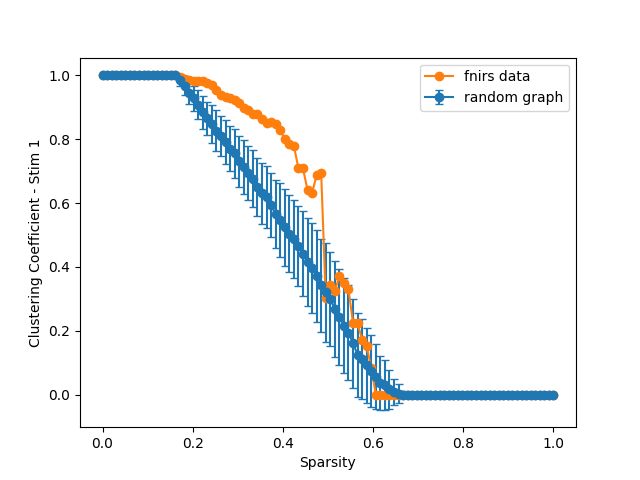
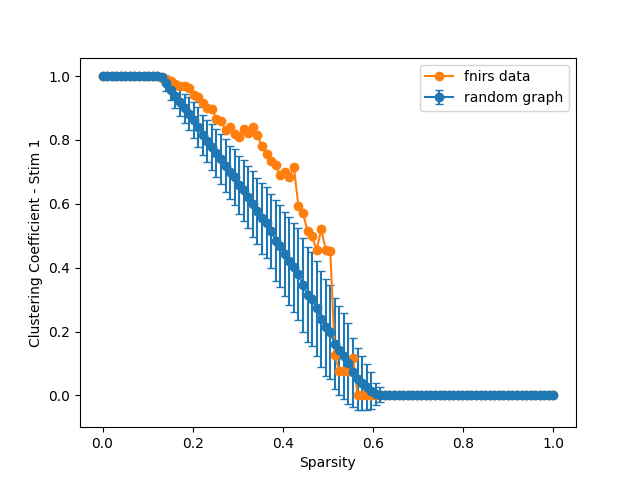
added class to compute graph metrics

diff --git a/main.py b/main.py
@@ -8,120 +8,154 @@ import utils
 # set seed
 np.random.seed(123)
 
-# class RandomGraphAnalyzer:
-#     def __init__(self, fc_matrix: np.ndarray, n_rnd_graphs: int=1000, analysis_type: str='sparsity', features: list=['global_efficiency', 'local_efficiency', 'clustering_coefficient']):
-#         '''
-#         Parameters:
-#             fc_matrix (numpy.ndarray): the functional connectivity matrix
-#             n_rnd_graphs (int): the number of random graphs to be generated
-#             analysis_type (str): the type of analysis to be performed. Options are 'sparsity' or 'threshold'
-#             features (list): the features to be analyzed. Options are 'global_efficiency', 'local_efficiency', 'clustering_coefficient'
-#         '''
-#         self.fc_matrix = fc_matrix
-#         self.n_rnd_graphs = n_rnd_graphs
-#         self.analysis_type = analysis_type
-#         self.nnodes = fc_matrix.shape[0]
-#         self.nedges = int(self.nnodes * (self.nnodes - 1) / 2)
+class RandomGraphAnalyzer:
+    def __init__(self, fc_matrix: np.ndarray, n_rnd_graphs: int=1000, analysis_type: str='sparsity', features: list=['global_efficiency', 'local_efficiency', 'clustering_coefficient']):
+        '''
+        Parameters:
+            fc_matrix (numpy.ndarray): the functional connectivity matrix
+            n_rnd_graphs (int): the number of random graphs to be generated
+            analysis_type (str): the type of analysis to be performed. Options are 'sparsity' or 'threshold'
+            features (list): the features to be analyzed. Options are 'global_efficiency', 'local_efficiency', 'clustering_coefficient'
+        '''
+        self.fc_matrix = fc_matrix
+        self.n_rnd_graphs = n_rnd_graphs
+        self.analysis_type = analysis_type
+        self.nnodes = fc_matrix.shape[0]
+        self.nedges = int(self.nnodes * (self.nnodes - 1) / 2)
         
-#         if analysis_type == 'sparsity':
-#             self.sparsity = np.linspace(0, 1, 100)
-#             self.threshold = None
-#         elif analysis_type == 'threshold':
-#             self.threshold = np.linspace(0, 1, 100)
-#             self.sparsity = None
-#         else:
-#             raise ValueError('Invalid analysis_type. Must be either "sparsity" or "threshold".')
+        if analysis_type == 'sparsity':
+            self.sparsity = np.linspace(0, 1, 100)
+            self.threshold = None
+        elif analysis_type == 'threshold':
+            self.threshold = np.linspace(0, 1, 100)
+            self.sparsity = None
+        else:
+            raise ValueError('Invalid analysis_type. Must be either "sparsity" or "threshold".')
 
-#         self.features = features
+        self.features = features
 
-#     def gen_random_graphs(self):
-#         '''
-#         Generate random graphs using the given analysis type and number of graphs.
-#         '''
-#         if self.analysis_type == 'sparsity':
-#             self.random_graphs = [utils.gen_random_bin_graph(nnodes=self.nnodes, edge_param=s, is_sparsity=True) for s in self.sparsity]
-#         elif self.analysis_type == 'threshold':
-#             self.random_graphs = [utils.gen_random_bin_graph(nnodes=self.nnodes, edge_param=t, is_sparsity=False) for t in self.threshold]
-#         return self.random_graphs
+    def gen_random_graphs(self):
+        '''
+        Generate random graphs using the given analysis type and number of graphs.
+        '''
+        if self.analysis_type == 'sparsity':
+            # generate n_rnd_graphs random graphs for each sparsity value
+            self.random_graphs = [[utils.RandomBinGraph(self.nnodes, binarize_type=self.analysis_type, binarize_param=sparsity).generate() for _ in range(self.n_rnd_graphs)] for sparsity in self.sparsity]
+        elif self.analysis_type == 'threshold':
+            self.random_graphs = [[utils.RandomBinGraph(self.nnodes, binarize_type=self.analysis_type, binarize_param=threshold).generate(min_weight=np.nanmin(self.fc_matrix), max_weight=np.nanmax(self.fc_matrix)) for _ in range(self.n_rnd_graphs)] for threshold in self.threshold]
+        return self.random_graphs
 
-#     def compute_features(self):
-#         '''
-#         Compute the features of the random graphs.
-#         '''
-#         self.random_graphs_features = {}
-#         for feature in self.features:
-#             if feature == 'global_efficiency':
-#                 self.random_graphs_features['global_efficiency'] = [bct.efficiency_bin(graph) for graph in self.random_graphs]
-#             elif feature == 'local_efficiency':
-#                 self.random_graphs_features['local_efficiency'] = [bct.efficiency_wei(graph) for graph in self.random_graphs]
-#             elif feature == 'clustering_coefficient':
-#                 self.random_graphs_features['clustering_coefficient'] = [np.mean(bct.clustering_coef_bu(graph)) for graph in self.random_graphs]
-#             else:
-#                 raise ValueError('Invalid feature. Must be either "global_efficiency", "local_efficiency", or "clustering_coefficient".')
-#         return self.random_graphs_features
+    def compute_features(self):
+        '''
+        Compute the features of the random graphs.
+        '''
+        self.random_graphs_features = {}
+        self.fc_graph_features = {}
+        # choose threshold or sparsity based on self.analysis_type
+        if self.analysis_type == 'sparsity':
+            time_points = self.sparsity
+        elif self.analysis_type == 'threshold':
+            time_points = self.threshold
 
+        for i, sparsity in enumerate(time_points):
+            for feature in self.features:
+                if feature == 'global_efficiency':
+                    self.random_graphs_features['global_efficiency_{}'.format(sparsity)] = [bct.efficiency_bin(graph) for graph in self.random_graphs[i]]
+                    self.fc_graph_features['global_efficiency_{}'.format(sparsity)] = bct.efficiency_bin(utils.BinarizeMatrix(self.fc_matrix, binarize_type=self.analysis_type, binarize_param=sparsity).binarize())
+                elif feature == 'local_efficiency':
+                    self.random_graphs_features['local_efficiency_{}'.format(sparsity)] = [bct.efficiency_bin(graph, local=True) for graph in self.random_graphs[i]]
+                    self.fc_graph_features['local_efficiency_{}'.format(sparsity)] = bct.efficiency_bin(utils.BinarizeMatrix(self.fc_matrix, binarize_type=self.analysis_type, binarize_param=sparsity).binarize())
+                elif feature == 'clustering_coefficient':
+                    self.random_graphs_features['clustering_coefficient_{}'.format(sparsity)] = [np.mean(bct.clustering_coef_bu(graph)) for graph in self.random_graphs[i]]
+                    self.fc_graph_features['clustering_coefficient_{}'.format(sparsity)] = np.mean(bct.clustering_coef_bu(utils.BinarizeMatrix(self.fc_matrix, binarize_type=self.analysis_type, binarize_param=sparsity).binarize()))
+                else:
+                    raise ValueError('Invalid feature. Must be either "global_efficiency", "local_efficiency", or "clustering_coefficient".')
+        return self.random_graphs_features, self.fc_graph_features
 
-
-
-
+    def plot_features(self):
+        '''
+        Plot the features of the random graphs.
+        '''
+        for i, feature in enumerate(self.features):
+            plt.errorbar(self.sparsity, [np.mean(self.random_graphs_features['{}_{}'.format(feature, sparsity)]) for sparsity in self.sparsity], 
+                         yerr=[np.std(self.random_graphs_features['{}_{}'.format(feature, sparsity)]) for sparsity in self.sparsity], label='Random Graphs')
+            plt.plot(self.sparsity, [self.fc_graph_features['{}_{}'.format(feature, sparsity)] for sparsity in self.sparsity], label='Real Graph', marker='o')
+            plt.xlabel('Sparsity')
+            plt.ylabel(feature)
+            plt.legend()
+            plt.savefig('output/{}_sparsity.png'.format(feature))
+            plt.clf()
 
 
 if __name__ == '__main__':
-    nnodes = 10
     ngraphs = 1000
+    fc_matrix = np.loadtxt('output/stim_0_fc_mean.csv', delimiter=',')
+    x = RandomGraphAnalyzer(fc_matrix, n_rnd_graphs=ngraphs, analysis_type='threshold', features=['global_efficiency', 'local_efficiency', 'clustering_coefficient'])
+    rgraphs = x.gen_random_graphs()
+    print(len(rgraphs))
+    print(len(rgraphs[0]))
+    x.compute_features()
+    x.plot_features()
 
-    # plot the variation of global efficiency with sparsity from 0 to 1
-    sparsity = np.linspace(0, 1, 100)
 
-    global_efficiency_mean = []
-    global_efficiency_std = []
-    global_efficiency_fnirs = []
 
-    cluster_coef_mean = []
-    cluster_coef_std = []
-    cluster_coef_fnirs = []
 
-    fnirs_adj_matrix_stim_0 = np.loadtxt('output/stim_1_fc_mean.csv', delimiter=',')
-    # get min and max weights ignoring nan values
-    min_weight = np.nanmin(fnirs_adj_matrix_stim_0)
-    max_weight = np.nanmax(fnirs_adj_matrix_stim_0)
-    print('min weight: ', min_weight)
-    print('max weight: ', max_weight)
+# if __name__ == '__main__':
+#     nnodes = 10
+#     ngraphs = 1000
 
-    for s in sparsity:
-        ge_list = []
-        cc_list = []
-        for i in range(ngraphs):
-            adj_matrix = utils.RandomBinGraph(nnodes=nnodes, binarize_type='threshold', binarize_param=s).generate(min_weight=min_weight, max_weight=max_weight)
-            ge = bct.efficiency_bin(adj_matrix)
-            cc = np.mean(bct.clustering_coef_bu(adj_matrix))
-            ge_list.append(ge)
-            cc_list.append(cc)
+#     # plot the variation of global efficiency with sparsity from 0 to 1
+#     sparsity = np.linspace(0, 1, 100)
 
-        ge_mean = np.mean(ge_list)
-        cc_mean = np.mean(cc_list)
-        ge_std = np.std(ge_list)
-        cc_std = np.std(cc_list)
+#     global_efficiency_mean = []
+#     global_efficiency_std = []
+#     global_efficiency_fnirs = []
 
-        global_efficiency_mean.append(ge_mean)
-        cluster_coef_mean.append(cc_mean)
-        global_efficiency_std.append(ge_std)
-        cluster_coef_std.append(cc_std)
-        global_efficiency_fnirs.append(bct.efficiency_bin(utils.BinarizeMatrix(fnirs_adj_matrix_stim_0, 'threshold', s).binarize()))
-        cluster_coef_fnirs.append(np.mean(bct.clustering_coef_bu(utils.BinarizeMatrix(fnirs_adj_matrix_stim_0, 'threshold', s).binarize())))
+#     cluster_coef_mean = []
+#     cluster_coef_std = []
+#     cluster_coef_fnirs = []
 
-    plt.errorbar(sparsity, global_efficiency_mean, yerr=global_efficiency_std, fmt='-o', capsize=3)
-    plt.plot(sparsity, global_efficiency_fnirs, '-o')
-    plt.xlabel('Sparsity')
-    plt.ylabel('Global Efficiency - Stim 1')
-    plt.legend(['fnirs data', 'random graph'])
-    plt.savefig('output/global_efficiency_stim_1.png')
+#     fnirs_adj_matrix_stim_0 = np.loadtxt('output/stim_0_fc_mean.csv', delimiter=',')
+#     # get min and max weights ignoring nan values
+#     min_weight = np.nanmin(fnirs_adj_matrix_stim_0)
+#     max_weight = np.nanmax(fnirs_adj_matrix_stim_0)
+#     print('min weight: ', min_weight)
+#     print('max weight: ', max_weight)
 
-    plt.clf()
+#     for s in sparsity:
+#         ge_list = []
+#         cc_list = []
+#         for i in range(ngraphs):
+#             adj_matrix = utils.RandomBinGraph(nnodes=nnodes, binarize_type='threshold', binarize_param=s).generate(min_weight=min_weight, max_weight=max_weight)
+#             ge = bct.efficiency_bin(adj_matrix)
+#             cc = np.mean(bct.clustering_coef_bu(adj_matrix))
+#             ge_list.append(ge)
+#             cc_list.append(cc)
 
-    plt.errorbar(sparsity, cluster_coef_mean, yerr=cluster_coef_std, fmt='-o', capsize=3)
-    plt.plot(sparsity, cluster_coef_fnirs, '-o')
-    plt.xlabel('Sparsity')
-    plt.ylabel('Clustering Coefficient - Stim 1')
-    plt.legend(['fnirs data', 'random graph'])
-    plt.savefig('output/clustering_coef_stim_1.png')
+#         ge_mean = np.mean(ge_list)
+#         cc_mean = np.mean(cc_list)
+#         ge_std = np.std(ge_list)
+#         cc_std = np.std(cc_list)
+
+#         global_efficiency_mean.append(ge_mean)
+#         cluster_coef_mean.append(cc_mean)
+#         global_efficiency_std.append(ge_std)
+#         cluster_coef_std.append(cc_std)
+#         global_efficiency_fnirs.append(bct.efficiency_bin(utils.BinarizeMatrix(fnirs_adj_matrix_stim_0, 'threshold', s).binarize()))
+#         cluster_coef_fnirs.append(np.mean(bct.clustering_coef_bu(utils.BinarizeMatrix(fnirs_adj_matrix_stim_0, 'threshold', s).binarize())))
+
+#     plt.errorbar(sparsity, global_efficiency_mean, yerr=global_efficiency_std, fmt='-o', capsize=3)
+#     plt.plot(sparsity, global_efficiency_fnirs, '-o')
+#     plt.xlabel('Sparsity')
+#     plt.ylabel('Global Efficiency - Stim 0')
+#     plt.legend(['fnirs data', 'random graph'])
+#     plt.savefig('output/global_efficiency_stim_0.png')
+
+#     plt.clf()
+
+#     plt.errorbar(sparsity, cluster_coef_mean, yerr=cluster_coef_std, fmt='-o', capsize=3)
+#     plt.plot(sparsity, cluster_coef_fnirs, '-o')
+#     plt.xlabel('Sparsity')
+#     plt.ylabel('Clustering Coefficient - Stim 0')
+#     plt.legend(['fnirs data', 'random graph'])
+#     plt.savefig('output/clustering_coef_stim_0.png')

diff --git a/utils.py b/utils.py
@@ -117,7 +117,7 @@ class RandomBinGraph:
         self.binarize_type = binarize_type  
         self.binarize_param = binarize_param
 
-    def generate(self, min_weight: float = -1, max_weight: float = 1) -> np.ndarray:
+    def generate(self, min_weight: float = None, max_weight: float = None) -> np.ndarray:
         '''
         Generate a random binary graph with given nodes and edges/sparsity
 
